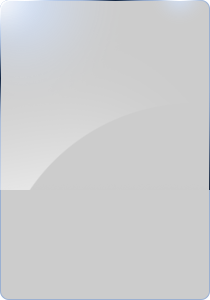
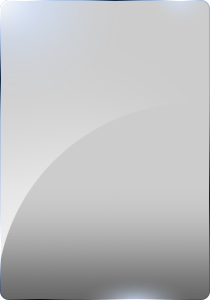
"아트 리소스 수정 및 무비리스트 추가"

Changed region(s): [[0.0, 0.63, 1.0, 1.0]]

diff --git a/src/components/Movies.jsx b/src/components/Movies.jsx
@@ -1,0 +1,56 @@
+import React from 'react';
+import styled from 'styled-components';
+import imgCover from './asset/movie_list_z200.png';
+
+const Movie = styled.div`
+	display: flex;
+	flex-direction: column;
+	align-items: center;
+`;
+
+const MoviePoster = styled.div`
+	width: 315px;
+	height: 450px;
+	margin: 10px 36px 14px 36px;
+	border-radius: 16px;
+	background-color: skyblue;
+
+	@media screen and (max-width: 760px) {
+		width: 210px;
+		height: 300px;
+		margin: 10px 10px 14px 10px;
+		border-radius: 10px;
+	}
+`;
+
+const MovieCover = styled.p`
+	position: absolute;
+	width: 315px;
+	height: 450px;
+	margin-top: 10px;
+	background-image: url(${imgCover});
+	background-size: contain;
+
+	@media screen and (max-width: 760px) {
+		width: 210px;
+		height: 300px;
+	}
+`;
+
+const MovieTitle = styled.figcaption`
+	height: 28px;
+	margin-bottom: 28px;
+	font-size: 28px;
+`;
+
+const Movies = () => {
+	return (
+		<Movie>
+			<MoviePoster />
+			<MovieCover />
+			<MovieTitle>영화제목</MovieTitle>
+		</Movie>
+	);
+};
+
+export default Movies;

diff --git a/src/components/Home.jsx b/src/components/Home.jsx
@@ -1,10 +1,37 @@
 import React from 'react';
+import Movies from './Movies';
+import styled from 'styled-components';
+
+const MovieList = styled.div`
+	display: flex;
+	flex-wrap: wrap;
+	padding: 12px;
+	min-width: 800px;
+
+	@media screen and (max-width: 760px) {
+		min-width: 760px;
+	}
+`;
 
 const Home = () => {
 	return (
-		<div>
-			<h1>Team Project 홈화면부분입니다</h1>
-		</div>
+		<MovieList>
+			<Movies />
+			<Movies />
+			<Movies />
+			<Movies />
+			<Movies />
+			<Movies />
+			<Movies />
+			<Movies />
+			<Movies />
+			<Movies />
+			<Movies />
+			<Movies />
+			<Movies />
+			<Movies />
+			<Movies />
+		</MovieList>
 	);
 };
 

diff --git a/src/App.jsx b/src/App.jsx
@@ -2,6 +2,7 @@ import React from 'react';
 import { Route, Routes } from 'react-router-dom';
 import Layout from './Layout';
 import Home from './components/Home';
+import Detail from './components/Detail';
 
 function App() {
 	return (
@@ -9,6 +10,7 @@ function App() {
 			<Routes>
 				<Route path="/" element={<Layout />}>
 					<Route index element={<Home />} />
+					<Route path="/Detail" element={<Detail />} />
 				</Route>
 			</Routes>
 		</div>

diff --git a/src/components/Detail.jsx b/src/components/Detail.jsx
@@ -1,0 +1,11 @@
+import React from 'react';
+
+const Detail = () => {
+	return (
+		<>
+			<h3>영화상세정보창입니다</h3>
+		</>
+	);
+};
+
+export default Detail;

diff --git a/src/Layout.jsx b/src/Layout.jsx
@@ -16,7 +16,6 @@ const Wrap = styled.div`
 `;
 
 const Section = styled.div`
-	height: 100vh;
 	background-image: url(${imgSection});
 	background-size: cover;
 `;
